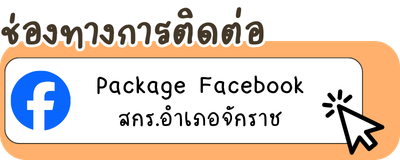
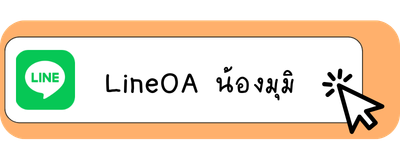
LineOA

diff --git a/skin.js b/skin.js
@@ -1,7 +1,7 @@
 // Garden Gnome Software - Skin
 // Pano2VR 7.1.10/21009
-// Filename: 
-// Generated 2026-03-05T14:51:25
+// Filename: feather_orb2.ggsk
+// Generated 2026-03-05T17:40:56
 
 function pano2vrSkin(player,base) {
 	player.addVariable('vis_sounds_splashscreen', 2, false, { ignoreInState: 1  });
@@ -5482,12 +5482,12 @@ navigator.share({ url: shareUrl });
 		el.className="ggskin ggskin_image ";
 		el.ggType='image';
 		hs ='';
-		hs+='height : 121px;';
-		hs+='left : 19px;';
+		hs+='height : 76px;';
+		hs+='left : 31px;';
 		hs+='position : absolute;';
-		hs+='top : 184px;';
+		hs+='top : 207px;';
 		hs+='visibility : inherit;';
-		hs+='width : 301px;';
+		hs+='width : 189px;';
 		hs+='pointer-events:auto;';
 		el.setAttribute('style',hs);
 		el.style.transformOrigin='50% 50%';
@@ -5504,11 +5504,58 @@ navigator.share({ url: shareUrl });
 			return player.getCurrentNode();
 		}
 		me._image_1.onclick=function (e) {
-			player.openUrl("https:\/\/m.me\/nfechakarat","");
+			player.openUrl("https:\/\/lin.ee\/8USSiOF","");
 		}
 		me._image_1.ggUpdatePosition=function (useTransition) {
 		}
 		me._safe_area_main.appendChild(me._image_1);
+		el=me._image_4=document.createElement('div');
+		els=me._image_4__img=document.createElement('img');
+		els.className='ggskin ggskin_image_4';
+		hs=basePath + 'images/image_4.png';
+		els.setAttribute('src',hs);
+		els.ggNormalSrc=hs;
+		hs ='';
+		hs += 'position: absolute;top: 0px;left: 0px;width: 100%;height: 100%;-webkit-user-drag:none;pointer-events:none;;';
+		els.setAttribute('style', hs);
+		els.className='ggskin ggskin_image';
+		els['ondragstart']=function() { return false; };
+		player.checkLoaded.push(els);
+		el.appendChild(els);
+		el.ggSubElement = els;
+		el.ggId="Image 4";
+		el.ggParameter={ rx:0,ry:0,a:0,sx:1,sy:1,def:'' };
+		el.ggVisible=true;
+		el.className="ggskin ggskin_image ";
+		el.ggType='image';
+		hs ='';
+		hs+='height : 79px;';
+		hs+='left : 28px;';
+		hs+='position : absolute;';
+		hs+='top : 126px;';
+		hs+='visibility : inherit;';
+		hs+='width : 196px;';
+		hs+='pointer-events:auto;';
+		el.setAttribute('style',hs);
+		el.style.transformOrigin='50% 50%';
+		me._image_4.ggIsActive=function() {
+			if ((this.parentNode) && (this.parentNode.ggIsActive)) {
+				return this.parentNode.ggIsActive();
+			}
+			return false;
+		}
+		el.ggElementNodeId=function() {
+			if ((this.parentNode) && (this.parentNode.ggElementNodeId)) {
+				return this.parentNode.ggElementNodeId();
+			}
+			return player.getCurrentNode();
+		}
+		me._image_4.onclick=function (e) {
+			player.openUrl("https:\/\/m.me\/nfechakarat","");
+		}
+		me._image_4.ggUpdatePosition=function (useTransition) {
+		}
+		me._safe_area_main.appendChild(me._image_4);
 		el=me._container_3=document.createElement('div');
 		el.ggId="Container 3";
 		el.ggParameter={ rx:0,ry:0,a:0,sx:1,sy:1,def:'' };
@@ -5559,12 +5606,12 @@ navigator.share({ url: shareUrl });
 		el.className="ggskin ggskin_image ";
 		el.ggType='image';
 		hs ='';
-		hs+='height : 138px;';
+		hs+='height : 82px;';
 		hs+='left : -909px;';
 		hs+='position : absolute;';
-		hs+='top : 36px;';
+		hs+='top : 35px;';
 		hs+='visibility : inherit;';
-		hs+='width : 345px;';
+		hs+='width : 204px;';
 		hs+='pointer-events:auto;';
 		el.setAttribute('style',hs);
 		el.style.transformOrigin='0% 50%';
@@ -15416,8 +15463,8 @@ alert("The current view has been copied.");
 		hs+='color : #000000;';
 		hs+='height : 45px;';
 		hs+='position : absolute;';
-		hs+='right : 48px;';
-		hs+='top : 39px;';
+		hs+='right : 43px;';
+		hs+='top : 45px;';
 		hs+='visibility : inherit;';
 		hs+='width : 150px;';
 		hs+='pointer-events:auto;';
@@ -21395,10 +21442,10 @@ alert("The current view has been copied.");
 					((player.getVariableValue('resp_phone') == false))
 				)
 			) {
-				let pdfInterval_247 = setInterval(() => {
+				let pdfInterval_275 = setInterval(() => {
 					if (skin._popup_pdf__pdf.contentWindow.PDFViewerApplication && skin._popup_pdf__pdf.contentWindow.PDFViewerApplication.initialized && skin._popup_pdf__pdf.contentWindow.PDFViewerApplication.downloadComplete && skin._popup_pdf__pdf.contentWindow.PDFViewerApplication.pdfViewer._pageViewsReady) {
 						skin._popup_pdf.ggSetCurrentPage(Number(player._(me.hotspot.target)));
-						clearInterval(pdfInterval_247);
+						clearInterval(pdfInterval_275);
 					}
 				}, 50);
 			}
@@ -21414,10 +21461,10 @@ alert("The current view has been copied.");
 					((player.getVariableValue('resp_phone') == true))
 				)
 			) {
-				let pdfInterval_248 = setInterval(() => {
+				let pdfInterval_276 = setInterval(() => {
 					if (skin._pdf_popup_phone__pdf.contentWindow.PDFViewerApplication && skin._pdf_popup_phone__pdf.contentWindow.PDFViewerApplication.initialized && skin._pdf_popup_phone__pdf.contentWindow.PDFViewerApplication.downloadComplete && skin._pdf_popup_phone__pdf.contentWindow.PDFViewerApplication.pdfViewer._pageViewsReady) {
 						skin._pdf_popup_phone.ggSetCurrentPage(Number(player._(me.hotspot.target)));
-						clearInterval(pdfInterval_248);
+						clearInterval(pdfInterval_276);
 					}
 				}, 50);
 			}
